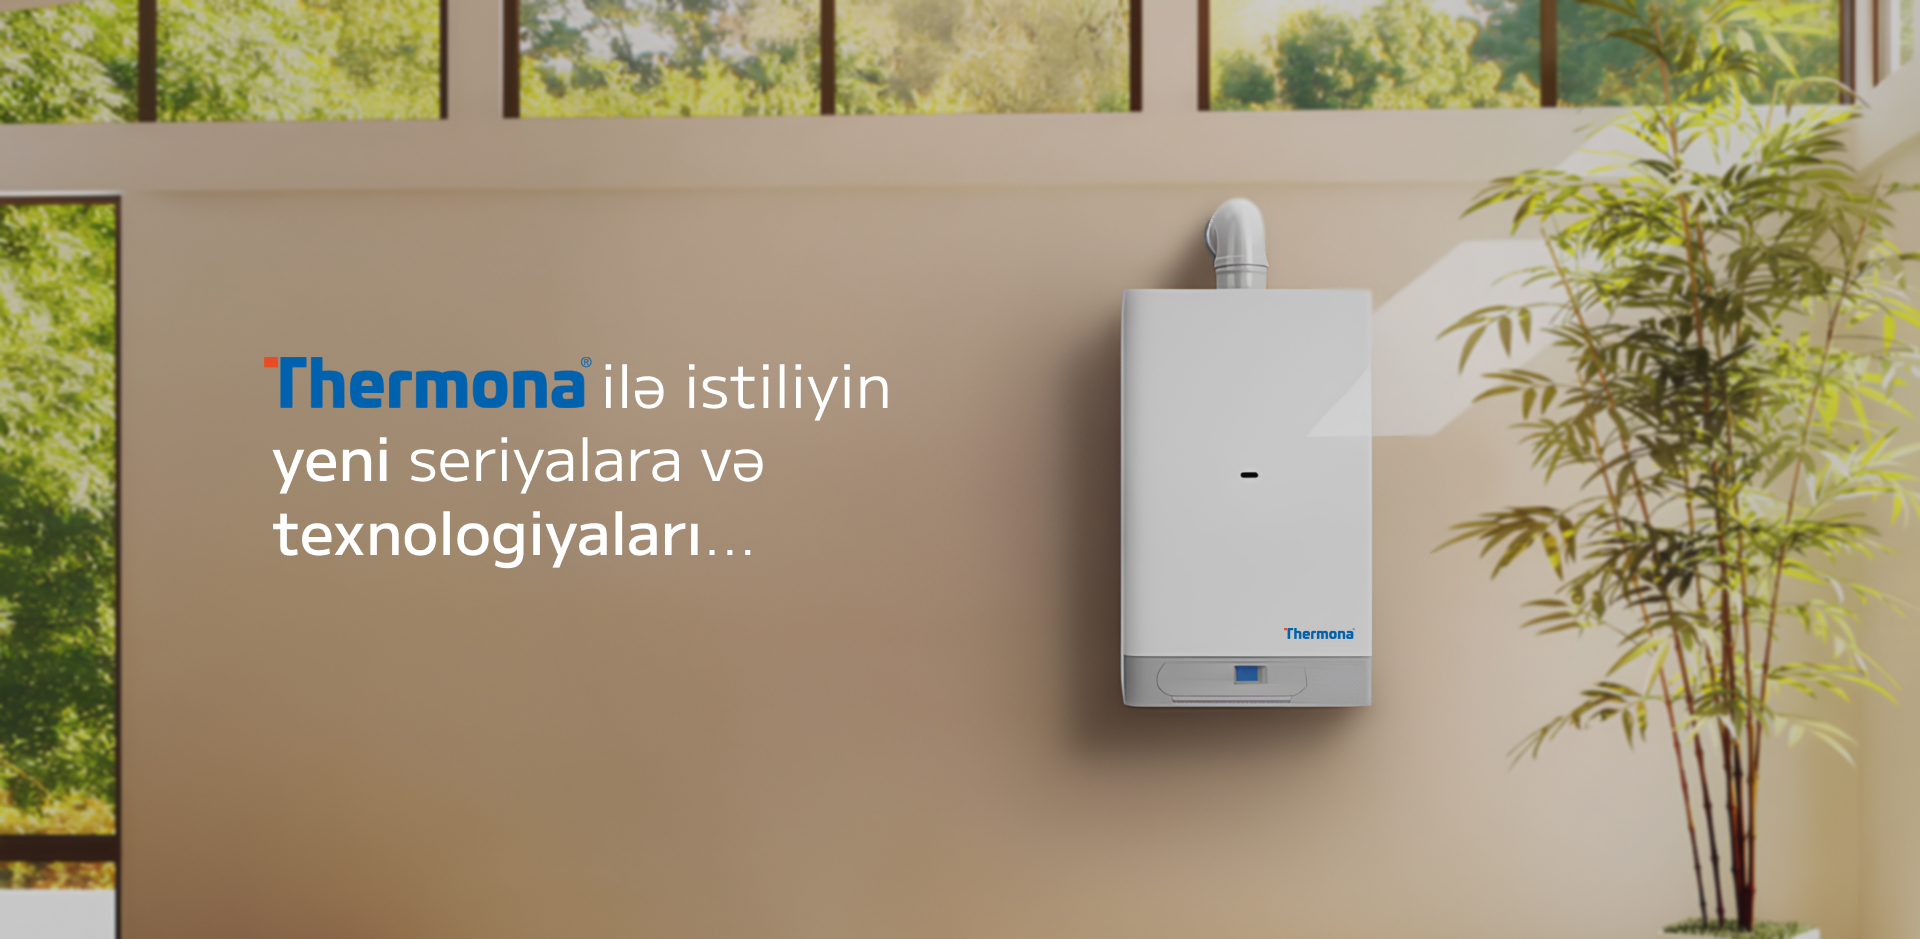
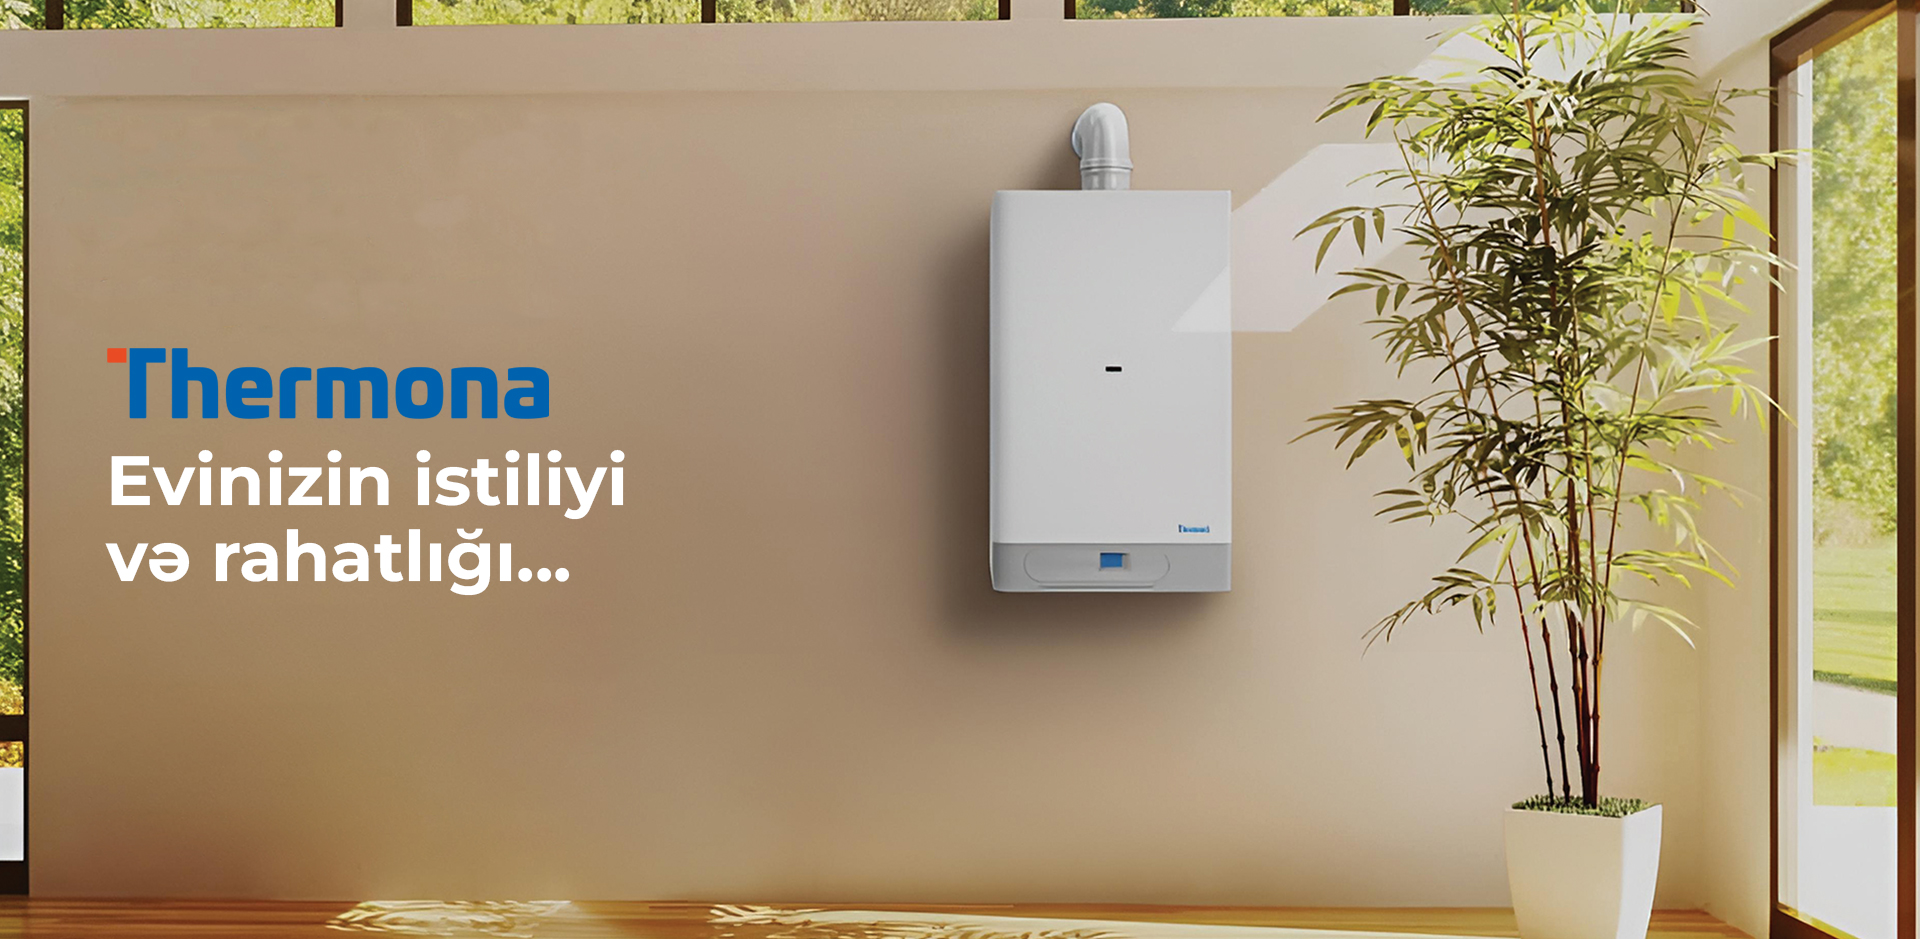
Chars

diff --git a/src/pages/Product.tsx b/src/pages/Product.tsx
@@ -1,16 +1,10 @@
 import React, { useEffect, useState } from "react";
 import { useParams } from "react-router-dom";
-import { fetchProducts, Product as ProductType } from "../services/products"; // Импортируйте вашу функцию и тип
-
-const chars = [
-    {
-        "name": "TUTUM (lt)",
-        "values": ["100 lt", "160 lt", "200 lt", "300 lt", "500 lt", "1000 lt"],
-    },
-];
-
-const headers = chars.map((char) => char.name);
-const rows = chars.map((char) => char.values);
+import {
+    Characteristic,
+    fetchProducts,
+    Product as ProductType,
+} from "../services/products"; // Импортируйте вашу функцию и тип
 
 const Product: React.FC = () => {
     const { id } = useParams<{ id: string }>();
@@ -23,6 +17,7 @@ const Product: React.FC = () => {
                 const products = await fetchProducts();
                 const foundProduct = products.find((p) => p.id === id);
                 setProduct(foundProduct);
+                console.log(foundProduct);
             } catch (err) {
                 console.error("Error fetching product:", err);
             } finally {
@@ -33,6 +28,17 @@ const Product: React.FC = () => {
         fetchProductById();
     }, [id]);
 
+    const chars: Characteristic[] | undefined = product?.characteristics;
+
+    console.log(
+        chars,
+        chars?.map((char) => char.name)
+    );
+    const headers = chars?.map((char) => char.name);
+    const rows = chars?.map((char) => char.values);
+    // const headers: string[] = chars.map((char) => char.name);
+    // const rows: string[][] = chars.map((char) => char.values);
+    // console.log(rows);
     return (
         <div className="product">
             <div className="container">
@@ -76,7 +82,7 @@ const Product: React.FC = () => {
                         </div>
                     </>
                 ) : (
-                    <p>Загрузка...</p>
+                    <></>
                 )}
             </div>
         </div>

diff --git a/src/components/Banner.tsx b/src/components/Banner.tsx
@@ -9,6 +9,8 @@ import image1 from "../assets/banner/banner-1.jpg";
 import image2 from "../assets/banner/banner-2.jpg";
 import image3 from "../assets/banner/banner-3.jpg";
 import image4 from "../assets/banner/banner-4.jpg";
+import image5 from "../assets/banner/banner-5.jpg";
+import image6 from "../assets/banner/banner-6.jpg";
 
 const Banner: React.FC = () => {
     return (
@@ -39,6 +41,14 @@ const Banner: React.FC = () => {
                 <SwiperSlide>
                     <Link to="/products/warmhaus"></Link>
                     <img src={image4} alt="Banner 4" />
+                </SwiperSlide>
+                <SwiperSlide>
+                    <Link to="/products/warmhaus"></Link>
+                    <img src={image5} alt="Banner 4" />
+                </SwiperSlide>
+                <SwiperSlide>
+                    <Link to="/products/warmhaus"></Link>
+                    <img src={image6} alt="Banner 4" />
                 </SwiperSlide>
             </Swiper>
             <img  className="banner--mobile-img" src={image1} alt=""/>

diff --git a/src/components/Partners.tsx b/src/components/Partners.tsx
@@ -19,8 +19,8 @@ import partner8 from "../assets/partners/partner-8.jpg";
 import partner9 from "../assets/partners/partner-9.jpg";
 import partner10 from "../assets/partners/partner-10.jpg";
 import partner11 from "../assets/partners/partner-11.jpg";
-import partner12 from "../assets/partners/partner-12.jpg";
-import partner13 from "../assets/partners/partner-13.jpg";
+import partner12 from "../assets/partners/kapran.png";
+import partner13 from "../assets/partners/kas.png";
 import partner14 from "../assets/partners/partner-14.png";
 import partner15 from "../assets/partners/partner-15.jpg";
 import partner16 from "../assets/partners/say-celik.png";
@@ -72,7 +72,7 @@ const Partners: React.FC = () => {
                     spaceBetween={30}
                     slidesPerView={1}
                     loop={true}
-                    autoplay={{delay: 3000}}
+                    // autoplay={{delay: 3000}}
                     breakpoints={{
                         1024: {
                             slidesPerView: 4,

diff --git a/src/scss/app.scss b/src/scss/app.scss
@@ -52,7 +52,7 @@ body.no-scroll {
         width: 100%;
         height: 100%;
         object-fit: cover;
-        object-position: -120px;
+        object-position: -30px;
         @media (max-width: 768px) {
             display: block;
         }
@@ -82,14 +82,14 @@ body.no-scroll {
 .partners {
     .swiper {
         img {
-            width: 100%;
-            height: auto;
-            object-fit: cover;
+            width: 100%; /* Картинка занимает всю ширину */
+            height: 100%; /* Картинка занимает всю высоту */
+            object-fit: contain;
         }
 
         .swiper-slide {
             display: flex !important;
-            height: 150px;
+            height: 120px;
             align-items: center !important;
         }
     }

diff --git a/src/services/products.ts b/src/services/products.ts
@@ -5,11 +5,16 @@ interface Database {
         Tables: {
             products: {
                 Row: Product;
-                Insert: Omit<Product, "id">; 
-                Update: Partial<Product>; 
+                Insert: Omit<Product, "id">;
+                Update: Partial<Product>;
             };
         };
     };
+}
+
+export interface Characteristic {
+    name: string;
+    values: string[];
 }
 
 export interface Product {
@@ -17,8 +22,8 @@ export interface Product {
     title: string;
     category: string;
     imageUrl: string;
+    characteristics: Characteristic[];
 }
-
 
 const supabaseUrl = import.meta.env.VITE_SUPABASE_URL;
 const supabaseKey = import.meta.env.VITE_SUPABASE_KEY;

diff --git a/src/scss/components/_products.scss b/src/scss/components/_products.scss
@@ -102,6 +102,10 @@
         border-spacing: 0;
         border-collapse: collapse;
 
+        @media (max-width: 576px) {
+            font-size: 14px;
+        }
+
         thead {
             background-color: #d9edf7;
         }
@@ -109,7 +113,6 @@
         th,td {
             padding: 10px;
             text-align: left;
-            font-size: 16px;
         }
 
         tbody{
